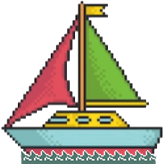
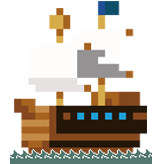
Replace boat sprite

diff --git a/alpha.py b/alpha.py
@@ -394,6 +394,10 @@ def next_round():
     player2.x = player2_x
     player2.y = player2_y
 
+    # Randomize crab positions in each round
+    for crab in static_entity_list:
+        crab.x = random.randint(0, win_width - land_enemy[0][0])
+
 # Switch player when one's turn is done
 def switch_player():
     global current_player
@@ -436,7 +440,7 @@ def redraw(result_text):
         player.draw()
     else:
         win.fill((0, 0, 0))
-        player.draw()
+        # player.draw()
         if player.is_successful:
             end_text = font.render('SUCCESS!', 1, (0, 255, 0))
         else:
@@ -536,7 +540,7 @@ while(run):
                 result_text = font.render('PLAYER 2 WINS THE ROUND!', 1, (255, 255, 255))
                 player2.level += 1
             else:
-                result_text = font.render('IT\'S A TIE!', 1, (255, 255, 255))
+                result_text = font.render('IT\'S A TIE! BOTH PLAYERS WIN.', 1, (255, 255, 255))
                 player1.level += 1
                 player2.level += 1
 
@@ -548,7 +552,6 @@ while(run):
     redraw(result_text)
 pygame.quit()
 
-# TODO: Replace boat sprite
 # TODO: Map custom keys to u/d/l/r navigation for each player
 # TODO: Add config files
 # TODO: Check whether code complies with PEP8 standards

diff --git a/tempCodeRunnerFile.py b/tempCodeRunnerFile.py
@@ -1,0 +1,1 @@
+player.draw()
